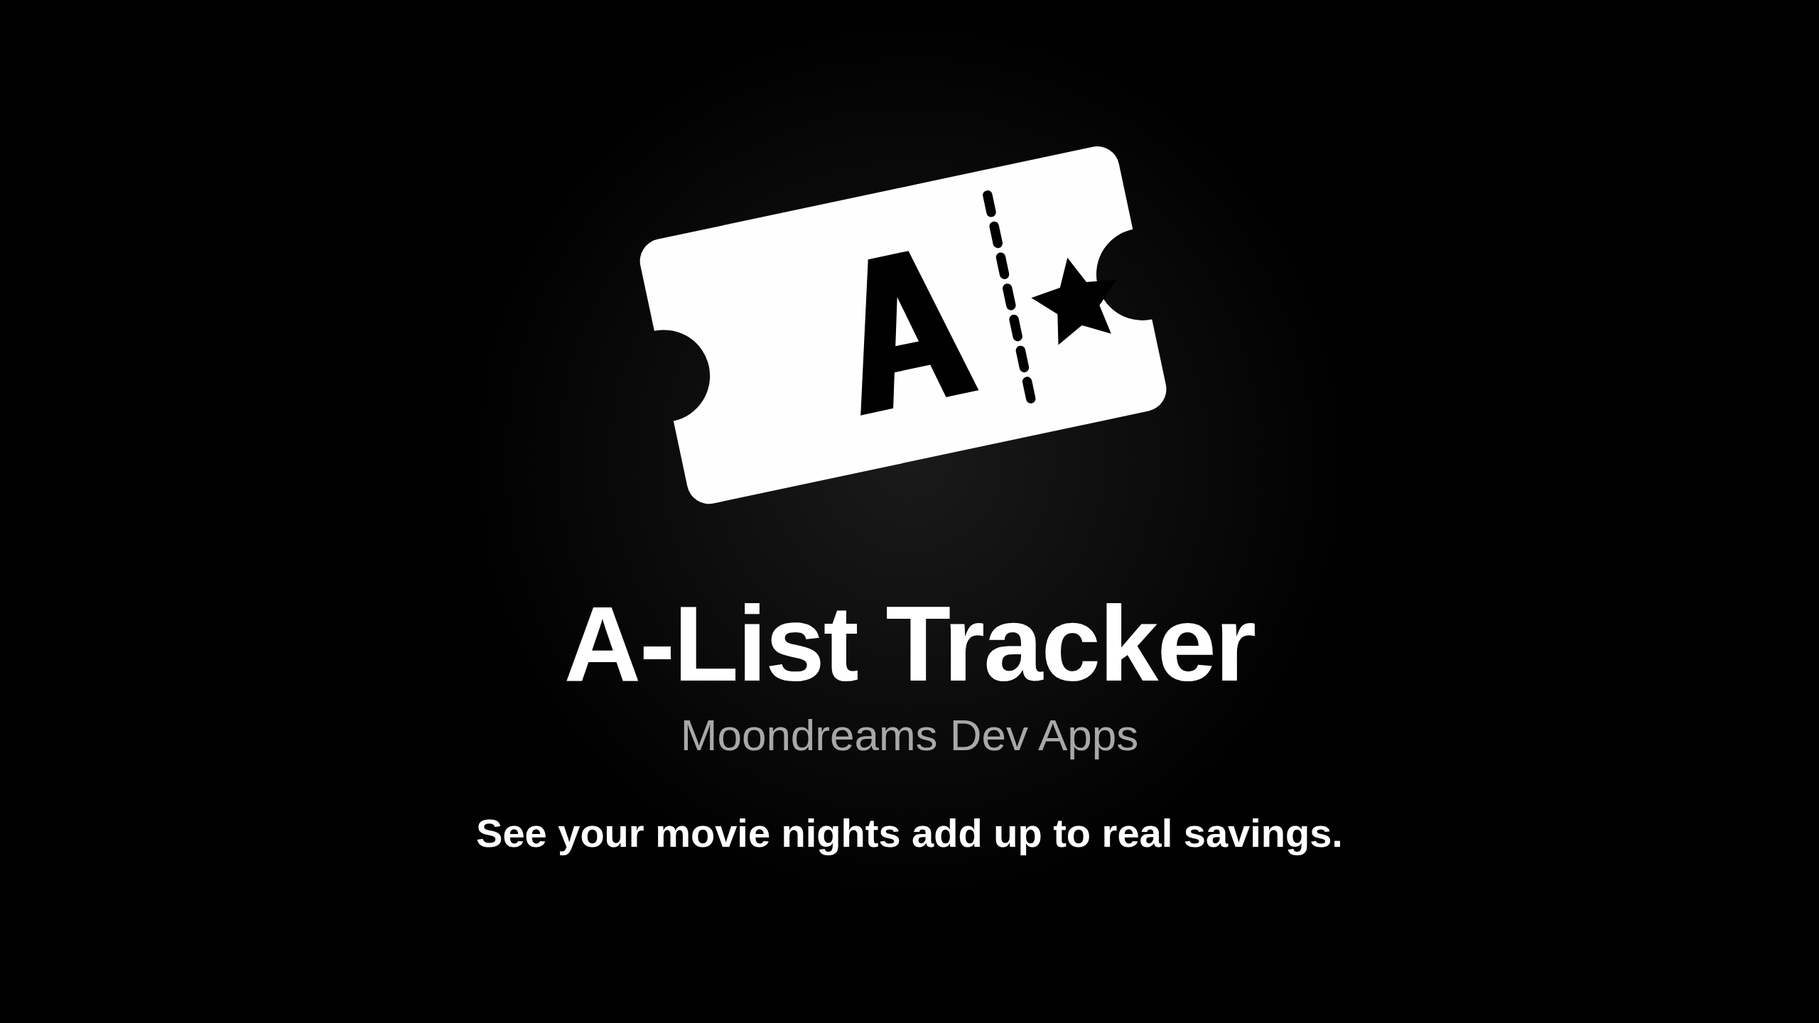
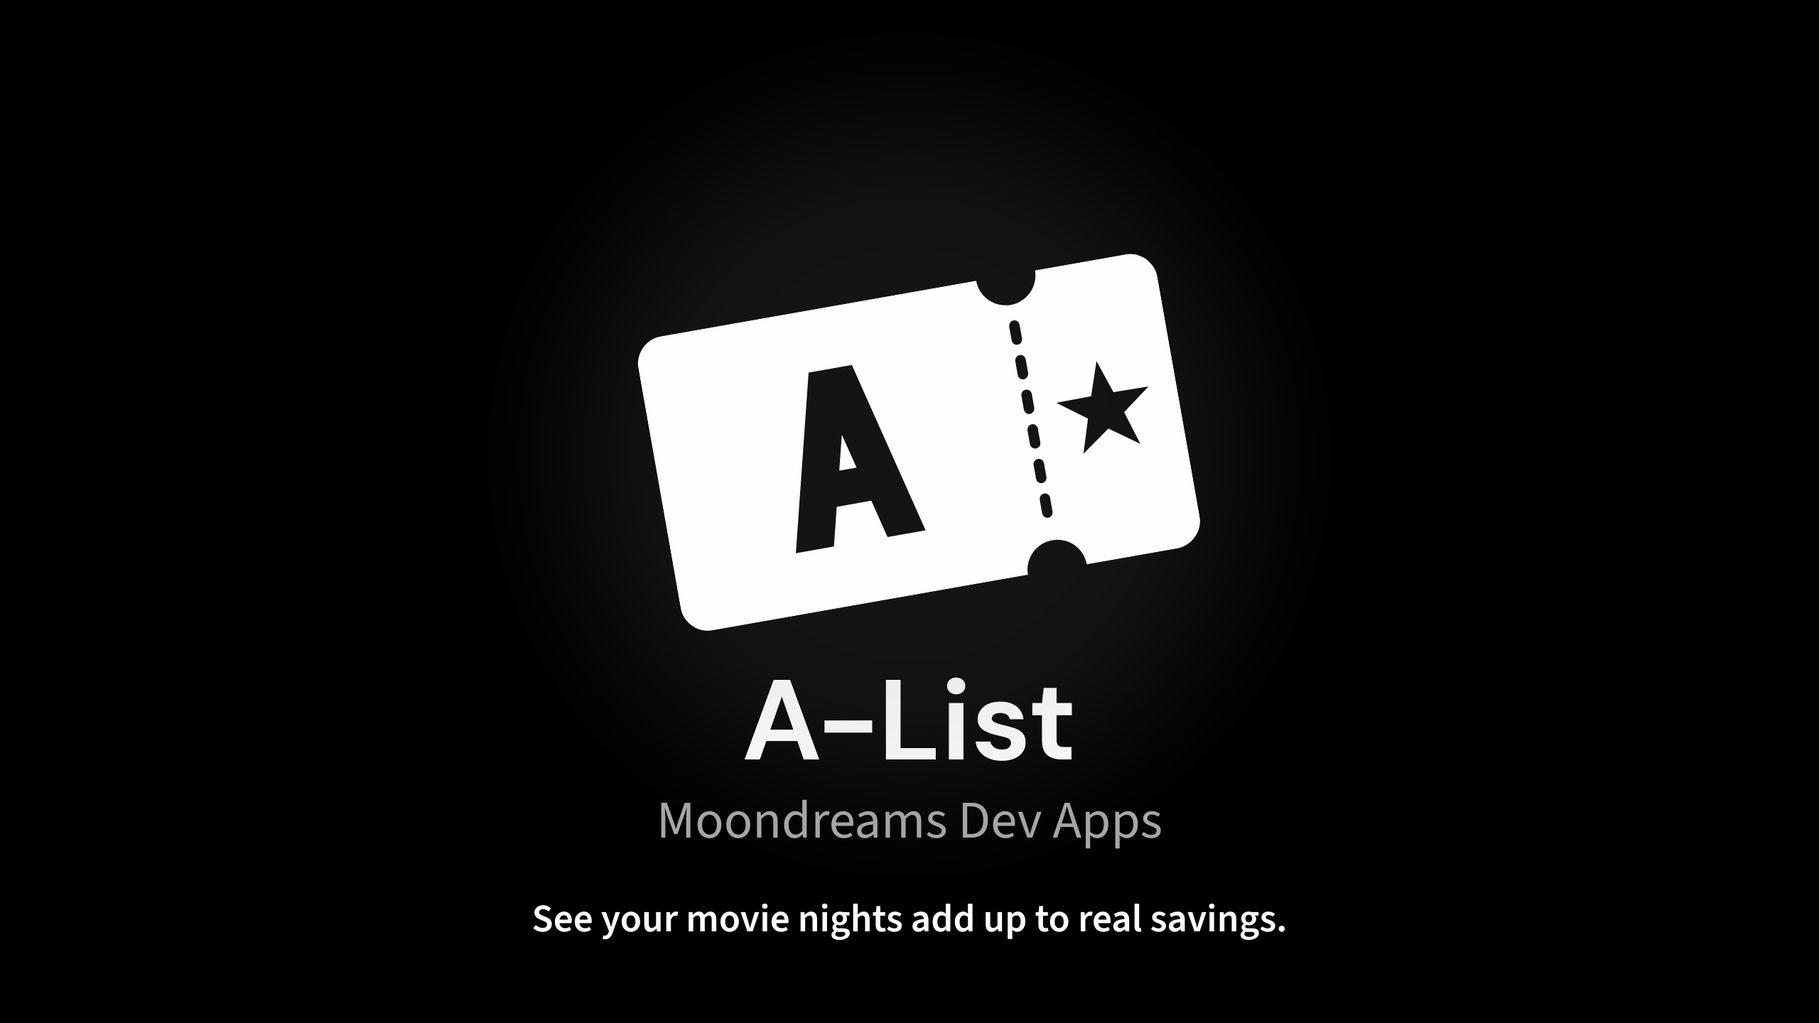
A-List Tracker: keep unreleased watchlist movies' release dates fresh (#231)
* A-List Tracker: keep unreleased watchlist movies' release dates fresh

Claude-Session: https://claude.ai/code/session_01HmaS8i75YXpKmJEY7DZLEc

* A-List Tracker: drop a comment that restated a constant

Claude-Session: https://claude.ai/code/session_01HmaS8i75YXpKmJEY7DZLEc

* Reuse shared DAY_MS and drop what-comments in refresh hook

Claude-Session: https://claude.ai/code/session_01HmaS8i75YXpKmJEY7DZLEc

* Rebuild Cloud Functions automatically before the emulators start

The emulator loads the git-ignored functions/lib/ and nothing recompiled it,
so pulled function changes were silently missing until a manual build.

Claude-Session: https://claude.ai/code/session_01HmaS8i75YXpKmJEY7DZLEc

* Make functions/README a scannable reference and require keeping it current

Lists every exported function with its trigger and purpose, plus a secrets and
config table, per-function notes, a checklist for new functions and a
troubleshooting table. CLAUDE.md and the Copilot instructions now require
updating it alongside any function or secret change, and turning repeated
setup steps into scripts.

Claude-Session: https://claude.ai/code/session_01HmaS8i75YXpKmJEY7DZLEc

* Note that the emulators read the functions' local env and secret files only at startup

Claude-Session: https://claude.ai/code/session_01HmaS8i75YXpKmJEY7DZLEc

* update assets

* disable autocomplete on all inputs by default

* Set the board's Apps field instead of an app label when creating issues
[…]

Changed region(s): [[0.3125, 0.125, 0.6875, 0.75], [0.25, 0.7812, 0.75, 0.8438], [0.2812, 0.875, 0.7188, 0.9375]]

diff --git a/src/apps/a-list/hooks/useRefreshUnreleasedMovies.ts b/src/apps/a-list/hooks/useRefreshUnreleasedMovies.ts
@@ -1,0 +1,100 @@
+import { useEffect } from 'react';
+import { useStore } from 'react-redux';
+
+import { DAY_MS, queryClient } from '@/lib/query/queryClient';
+import { useAppDispatch, type RootState } from '@/store';
+import {
+  fromDateInputValue,
+  toLocalDateInputValue,
+} from '@/utils/dateInputUtils';
+import { REFRESH_BATCH_SIZE } from '@apps/a-list/constants';
+import { movieDetailsQueryOptions } from '@apps/a-list/queries/movieQueries';
+import { refreshWatchlistMovie } from '@apps/a-list/store/actions/watchlistActions';
+import { selectWatchlistRows } from '@apps/a-list/store/selectors';
+import type { MovieSnapshot } from '@apps/a-list/types';
+
+const SNAPSHOT_FIELDS: (keyof MovieSnapshot)[] = [
+  'title',
+  'releaseDate',
+  'posterUrl',
+  'runtimeMinutes',
+  'contentRating',
+];
+const refreshedThisSession = new Set<string>();
+
+/** A window of the sorted keys that moves along each day and wraps, so no movie is starved. */
+function pickDailyRotation(
+  movieKeys: string[],
+  now: number,
+  size: number,
+): string[] {
+  const sorted = [...movieKeys].sort();
+  if (sorted.length <= size) return sorted;
+
+  const offset = (Math.floor(now / DAY_MS) * size) % sorted.length;
+  const result = Array.from(
+    { length: size },
+    (_, index) => sorted[(offset + index) % sorted.length],
+  );
+  return result;
+}
+
+function isSnapshotChanged(stored: MovieSnapshot, fresh: MovieSnapshot) {
+  const result = SNAPSHOT_FIELDS.some(
+    (field) => (stored[field] ?? null) !== (fresh[field] ?? null),
+  );
+  return result;
+}
+
+export function useRefreshUnreleasedMovies(
+  uid: string | null,
+  isReady: boolean,
+) {
+  const store = useStore<RootState>();
+  const dispatch = useAppDispatch();
+
+  useEffect(() => {
+    if (!uid || !isReady || refreshedThisSession.has(uid)) {
+      return;
+    }
+    refreshedThisSession.add(uid);
+
+    const now = Date.now();
+    const todayDay = fromDateInputValue(toLocalDateInputValue(now)) ?? 0;
+    const rows = selectWatchlistRows(store.getState(), now);
+    const eligible = rows.filter(
+      ({ item, isSeen }) =>
+        !isSeen &&
+        item.movieKey.startsWith('imdb-') &&
+        (item.movie.releaseDate === null || item.movie.releaseDate >= todayDay),
+    );
+    const picked = pickDailyRotation(
+      eligible.map(({ item }) => item.movieKey),
+      now,
+      REFRESH_BATCH_SIZE,
+    );
+
+    const refresh = async () => {
+      // One at a time, so a spent lookup budget costs one failed call per movie, not a burst.
+      await picked.reduce(async (previous, movieKey) => {
+        await previous;
+        try {
+          const fresh = await queryClient.fetchQuery(
+            movieDetailsQueryOptions(movieKey),
+          );
+          const stored = eligible.find(({ item }) => item.movieKey === movieKey)
+            ?.item.movie;
+          if (stored && isSnapshotChanged(stored, fresh)) {
+            await dispatch(
+              refreshWatchlistMovie({ uid, movieKey, movie: fresh }),
+            ).unwrap();
+          }
+        } catch {
+          return;
+        }
+      }, Promise.resolve());
+    };
+
+    void refresh();
+  }, [uid, isReady, store, dispatch]);
+}

diff --git a/src/hooks/useDisableAutocomplete.ts b/src/hooks/useDisableAutocomplete.ts
@@ -1,0 +1,28 @@
+import { useEffect } from 'react';
+
+const FIELD_SELECTOR = 'input:not([autocomplete]), textarea:not([autocomplete])';
+
+const disableAutocomplete = (root: ParentNode) =>
+  root.querySelectorAll(FIELD_SELECTOR).forEach((field) => field.setAttribute('autocomplete', 'off'));
+
+// Library-built form fields expose no autocomplete option, so the default is set on the DOM.
+// Only insertions are observed and only the added subtree is scanned, so cost tracks what mounts.
+// A field with its own autocomplete attribute is left alone.
+export function useDisableAutocomplete() {
+  useEffect(() => {
+    disableAutocomplete(document);
+
+    const observer = new MutationObserver((mutations) =>
+      mutations.forEach((mutation) =>
+        mutation.addedNodes.forEach((node) => {
+          if (!(node instanceof Element)) return;
+          if (node.matches(FIELD_SELECTOR)) node.setAttribute('autocomplete', 'off');
+          disableAutocomplete(node);
+        }),
+      ),
+    );
+    observer.observe(document.body, { childList: true, subtree: true });
+
+    return () => observer.disconnect();
+  }, []);
+}

diff --git a/src/apps/a-list/store/actions/watchlistActions.ts b/src/apps/a-list/store/actions/watchlistActions.ts
@@ -121,3 +121,30 @@ export const removeWatchlistItem = createAsyncThunk<
     );
   }
 });
+
+/** Writes a fresher provider snapshot onto the watchlist item; viewings keep their own copy. */
+export const refreshWatchlistMovie = createAsyncThunk<
+  void,
+  { uid: string; movieKey: string; movie: MovieSnapshot },
+  { rejectValue: string }
+>(
+  'aList/watchlist/refreshMovie',
+  async ({ uid, movieKey, movie }, { rejectWithValue }) => {
+    try {
+      await updateDoc(getItemRef(uid, movieKey), {
+        movie: {
+          title: movie.title,
+          releaseDate: movie.releaseDate ?? null,
+          posterUrl: movie.posterUrl ?? null,
+          runtimeMinutes: movie.runtimeMinutes ?? null,
+          contentRating: movie.contentRating ?? null,
+        },
+        lastEditedAt: Date.now(),
+      });
+    } catch (error) {
+      return rejectWithValue(
+        getErrorMessage(error, 'Unable to refresh this movie.'),
+      );
+    }
+  },
+);

diff --git a/src/apps/a-list/AList.tsx b/src/apps/a-list/AList.tsx
@@ -23,6 +23,7 @@ import WatchlistScreen from '@apps/a-list/components/watchlist/WatchlistScreen';
 import { A_LIST_TABS, DEFAULT_A_LIST_TAB } from '@apps/a-list/constants';
 import { AListOverlayContext } from '@apps/a-list/hooks/useAListOverlay';
 import { useAListSync } from '@apps/a-list/hooks/useAListSync';
+import { useRefreshUnreleasedMovies } from '@apps/a-list/hooks/useRefreshUnreleasedMovies';
 import {
   selectIsAListLoaded,
   selectMembership,
@@ -48,6 +49,10 @@ function AList() {
   const loadError = useAppSelector(selectAListLoadError);
 
   useAListSync(user?.uid ?? null);
+  useRefreshUnreleasedMovies(
+    user?.uid ?? null,
+    isLoaded && !loadError && membership !== null,
+  );
 
   const requestedTab = searchParams.get('tab');
   const activeTab: AListTab =

diff --git a/src/App.tsx b/src/App.tsx
@@ -8,6 +8,7 @@ import { TOAST_TYPE_STYLES } from '@components/toastTypeStyles';
 import { AppCatalogProvider } from '@contexts/AppCatalogContext';
 import { AuthProvider } from '@contexts/AuthContext';
 import { NetworkStatusProvider } from '@contexts/NetworkStatusContext';
+import { useDisableAutocomplete } from '@hooks/useDisableAutocomplete';
 import { useReminderSync } from '@hooks/useReminderSync';
 import { SITE_VERSION } from '@lib/app';
 import {
@@ -22,6 +23,7 @@ import { store } from '@store/index';
 // Central, app-wide reminder sync — every mini-app shares this one
 // subscription instead of each wiring its own.
 function AppShell() {
+  useDisableAutocomplete();
   useReminderSync();
 
   return <RouterProvider router={router} />;

diff --git a/src/index.css b/src/index.css
@@ -108,6 +108,9 @@ input[type="file"]:disabled::-webkit-file-upload-button {
   cursor: not-allowed;
 }
 
+[role="dialog"] [tabindex="-1"]:focus {
+  outline: none;
+}
 
 /* Dreamer UI styles */
 @import "@moondreamsdev/dreamer-ui/styles"; /* non-TailwindCSS styles */

diff --git a/src/lib/app/app.constants.ts b/src/lib/app/app.constants.ts
@@ -5,4 +5,4 @@ export const APP_DESCRIPTION =
 export const ADMIN_EMAIL = 'nova@moondreams.dev';
 
 // Site-wide version, shared across every mini-app. Bump manually per release.
-export const SITE_VERSION = '1.52.0';
+export const SITE_VERSION = '1.53.1';

diff --git a/src/apps/a-list/constants.ts b/src/apps/a-list/constants.ts
@@ -30,6 +30,7 @@ export const MAX_MONTHLY_GOAL = 93;
 
 export const MOVIE_SEARCH_MIN_CHARS = 2;
 export const MOVIE_DETAILS_STALE_MS = 24 * 60 * 60 * 1000;
+export const REFRESH_BATCH_SIZE = 10;
 
 export const AMC_FORMATS: AmcFormat[] = [
   'STANDARD',

diff --git a/functions/README.md b/functions/README.md
@@ -1,41 +1,114 @@
 # Cloud Functions for MoonDreams Apps
 
-This repository includes the server-side execution path for Worth the Wait. The callable function lives at `functions/src/apps/worth-the-wait/triggerBoxAction.ts` and is exported from `functions/src/index.ts`.
+Server-side code for the mini-apps. Every function:
 
-The app-agnostic `fetchLinkMetadata` callable (`functions/src/linkMetadata/fetchLinkMetadata.ts`) reads any link's Open Graph metadata (title/description/image/site name) for any mini-app that wants a link preview. It needs no secrets (no API key), but does an outbound fetch on the caller's behalf, so it resolves the target's DNS first and rejects private/loopback/link-local addresses (an SSRF guard), caps redirects at 3, times out at 6s, and reads at most 1MB.
+- is exported from `functions/src/index.ts`;
+- runs in `us-central1`;
+- is deployed by CI on every merge to `main` (see the root README's [Deployment](../README.md#deployment)).
 
-A-List Tracker's movie lookups go through two callables in `functions/src/apps/a-list/`: `searchMovies({ query })` → `{ results }` (up to 10) and `getMovie({ movieKey })` → a movie snapshot (release date, runtime, rating, poster). Both require a signed-in caller and call [OMDb](https://www.omdbapi.com/) with the **`OMDB_API_KEY`** Functions secret (`firebase functions:secrets:set OMDB_API_KEY`); the key never reaches the browser, a response, or a log. OMDb's free tier is about 1,000 lookups a day for the whole app, so results are cached server-side (`apps/a-list/searchCache` for 7 days, `apps/a-list/movieCache` for 30 days once released and 1 day otherwise), and `lookupBudget.ts` counts every upstream call in `apps/a-list/lookupUsage`, refusing with `resource-exhausted` at 900 a day app-wide or 100 per member (override locally with `A_LIST_APP_DAILY_LOOKUP_CAP` / `A_LIST_MEMBER_DAILY_LOOKUP_CAP` in `functions/.env.local`). Clients can't read or write any of those three collections. **In the emulator with no key set, both callables answer from a built-in OMDb-shaped fixture catalog** (try "galaxy", "matrix" or "starlight"), so A-List works offline; put a real key in `functions/.secret.local` (`OMDB_API_KEY=…`) to hit OMDb locally. After the first deploy, if the browser reports a CORS error, follow the invoker-access step in the root README's Deployment section.
+## Functions
+
+| Function | Trigger | App | What it does |
+| --- | --- | --- | --- |
+| `searchMovies` | callable | A-List Tracker | `{ query }` → `{ results }` (up to 10) from OMDb |
+| `getMovie` | callable | A-List Tracker | `{ movieKey }` → a movie snapshot (release date, runtime, rating, poster) |
+| `triggerBoxAction` | callable | Worth the Wait | Runs the locked reveal/raffle workflow ([details](src/apps/worth-the-wait/README.md)) |
+| `deleteTrip` | callable | Waypoint | Deletes a trip and everything a client `deleteDoc` can't reach (subcollections, requests, reminders, cover) |
+| `shiftTripDates` | callable | Waypoint | Moves a trip's dates while keeping every item on its calendar day ("keep original dates") |
+| `rescheduleTripReminders` | Firestore update on `apps/waypoint/trips/{tripId}` | Waypoint | Re-times event reminders when a relative trip's dates or time zone change |
+| `fetchLinkMetadata` | callable | shared | Reads a link's Open Graph preview (title, description, image, site name) |
+| `sendScheduledReminders` | schedule, every 5 minutes | shared | Sends due push reminders from `reminders` through FCM |
+
+Every callable requires a signed-in caller.
+
+## Secrets and config
+
+| Name | Kind | Used by | Set it with |
+| --- | --- | --- | --- |
+| `OMDB_API_KEY` | Functions secret, **required to deploy** | `searchMovies`, `getMovie` | `firebase functions:secrets:set OMDB_API_KEY --project moondreams-dev-apps` |
+| `A_LIST_APP_DAILY_LOOKUP_CAP` | env, optional (default 900) | A-List lookups | `functions/.env.local` locally |
+| `A_LIST_MEMBER_DAILY_LOOKUP_CAP` | env, optional (default 100) | A-List lookups | `functions/.env.local` locally |
+
+- A secret never reaches the browser, a response, or a log.
+- `functions/.env.local` and `functions/.secret.local` are git-ignored (`*.local`).
+- Locally, put a real key in `functions/.secret.local` (`OMDB_API_KEY=…`) to call OMDb from the emulator. Leave the value empty (`OMDB_API_KEY=`) to use the built-in sample movies instead.
+- **Restart the emulators after editing either file.** They read `.env.local` and `.secret.local` only at startup.
+
+## Per-function notes
+
+### A-List Tracker: `searchMovies` and `getMovie`
+
+- **Upstream:** [OMDb](https://www.omdbapi.com/). The free tier is about 1,000 lookups a day for the whole app.
+- **Server cache:**
+  - `apps/a-list/searchCache`: 7 days.
+  - `apps/a-list/movieCache`: 30 days once a movie is released, 1 day before that (unreleased dates move).
+- **Budget:** `lookupBudget.ts` counts every upstream call in `apps/a-list/lookupUsage`. It refuses with `resource-exhausted` at 900 a day app-wide or 100 per member.
+- **Access:** clients can't read or write `searchCache`, `movieCache` or `lookupUsage`.
+- **Offline fixtures:**
+  - In the emulator with no key set, both callables answer from a built-in OMDb-shaped catalog (try "galaxy", "matrix" or "starlight").
+  - Unknown ids return `not-found`.
+
+### `fetchLinkMetadata`
+
+- **Secrets:** none.
+- **Safety:** it fetches on the caller's behalf, so it:
+  - resolves DNS first and rejects private, loopback and link-local addresses (SSRF guard);
+  - caps redirects at 3;
+  - times out at 6s;
+  - reads at most 1MB.
+
+### `sendScheduledReminders`
+
+- **Schedule:** polls every 5 minutes.
+- **Timing:** it looks ahead over the whole window and waits out each reminder's exact delay, so delivery is accurate to the second without a task queue.
 
 ## Local development
 
-1. Build the Cloud Functions package first so the emulator loads the compiled `functions/lib/index.js`:
+1. Install the functions package's dependencies. The root `npm install` doesn't cover `functions/`:
 
    ```bash
-   cd functions && npm install && npm run build
+   npm --prefix functions install
    ```
 
-2. Start the local Firebase emulators for Auth, Firestore, Realtime Database, and Cloud Functions:
+2. Start the emulators:
 
    ```bash
    npm run emulators
    ```
 
-3. Seed the local emulator data for the app:
+   This recompiles `functions/lib/` first, which is what the emulator loads. The `preemulators*` hooks in the root `package.json` do the same for `emulators:seed` and `emulators:seed:reset`, so pulled function changes are always picked up.
+
+3. Seed the emulator data, in a second terminal:
 
    ```bash
    npm run seed:reset
    ```
 
-4. Invoke the callable function from a signed-in client or a custom-token helper. The emulator exposes it at:
+4. Call a function from the signed-in app, or directly at:
 
    ```text
-   http://127.0.0.1:5001/moondreams-dev-apps/us-central1/triggerBoxAction
+   http://127.0.0.1:5001/moondreams-dev-apps/us-central1/<functionName>
    ```
 
-## Emulator checks
+The emulator UI at `http://127.0.0.1:4001` shows Firestore and Realtime Database state while a function runs. The seed data has fixture users and records for every app (see [SEEDING.md](../SEEDING.md)).
 
-Use the emulator UI at `http://127.0.0.1:4001` to inspect the Firestore and Realtime Database state while the function runs. The local seed data includes a shared Worth the Wait space and fixture user IDs so you can validate both trigger paths without touching production data.
+## Adding or changing a function
+
+- **Location:** export it from `functions/src/index.ts`, with app code under `functions/src/apps/<app>/`.
+- **Update this README in the same PR:**
+  - the table row;
+  - a "Secrets and config" row for any new secret or env var;
+  - a note if it caches, budgets, or fetches on a user's behalf.
+- **New secret:** create it in production *before* the PR merges, or the CI functions deploy fails and nothing ships.
+- **New callable:** if the browser reports a CORS error after its first deploy, run the invoker fix in the root README's [New Cloud Functions & Cloud Run invoker access](../README.md#new-cloud-functions--cloud-run-invoker-access).
+- **Server-only collection:** give it a deny-all block in `firestore.rules`.
 
 ## Troubleshooting
 
-If you run into issues about the function not being found or `lib/index.js` not existing, it means you've forgotten to run `npm run build`.
+| Symptom | Cause and fix |
+| --- | --- |
+| Emulator says a function isn't found, or `lib/index.js` doesn't exist | `functions/lib/` wasn't built. Start through `npm run emulators` (it builds first), or run `npm --prefix functions run build`. |
+| Browser CORS error on a callable in production | Missing public-invoker grant. See the root README's invoker section. |
+| CI deploy fails on functions with a secret error | The secret doesn't exist in production yet. Set it with `firebase functions:secrets:set`. |
+| A-List search shows sample movies locally | `OMDB_API_KEY` in `functions/.secret.local` is missing or empty, so the emulator uses its fixture catalog. If you just added the key, restart the emulators. |
+| A changed `.env.local` cap or `.secret.local` key has no effect | The emulators read these files only at startup. Restart them. |

diff --git a/CLAUDE.md b/CLAUDE.md
@@ -79,6 +79,8 @@ How Waypoint's phone-first redesign works; new features follow it. Design the ph
 ## Cloud Functions
 
 - A third-party key that can't be domain-restricted is a Functions secret behind an `onCall` (never in the browser, a response or a log); a free-tier API shared by all users gets a server-side cache and a daily budget guard. Full rule in `copilot-instructions.md`.
+- **`functions/README.md` is the functions reference — keep it current in the same PR.** Adding, renaming or removing a function updates its row in the Functions table (trigger, app, purpose). A new secret or env var gets a "Secrets and config" row, and a function that caches, budgets or fetches for a user gets a per-function note. A new secret is created in production before the PR merges (CI deploys every function on merge, and a missing secret fails the whole deploy), and the PR body says so.
+- **Local setup lives in scripts, not memory.** A step every developer must repeat (like building `functions/lib/` before the emulators load it, handled by the `preemulators*` hooks) becomes a `package.json` script or `pre*` hook, and the README documents the command rather than the manual step.
 - A newly-added `onCall` function can deploy without its public-invoker IAM grant (symptom: browser CORS error; GCP Cloud Run request logs show a 403 on the `OPTIONS` preflight). See README's [Deployment](README.md#new-cloud-functions--cloud-run-invoker-access) section for the `gcloud run services update --no-invoker-iam-check` fix.
 
 ## Nine Lives placement

diff --git a/.github/copilot-instructions.md b/.github/copilot-instructions.md
@@ -170,6 +170,8 @@ useEffect(() => {
 - Keep the root `README.md` and relevant mini-app docs current and minimal whenever code or behavior changes.
 - Preserve the existing structure and tone of existing docs; do not rewrite them into a different format or voice.
 - Update, remove, or compress stale content instead of adding long commentary.
+- **`functions/README.md` mirrors `functions/src/index.ts`:** every exported function has a row in its Functions table (trigger, app, purpose), and every secret or env var a function reads has a "Secrets and config" row. Update both in the same PR that adds, renames, removes or reconfigures a function. A new secret must exist in production before the PR merges, because CI deploys every function on merge and a missing secret fails the deploy.
+- **A setup step every developer must repeat is a script, not a README instruction.** Build it into `package.json` (a script or a `pre*` hook, like the `preemulators*` hooks that compile `functions/lib/` before the emulators load it), then document the command.
 - **The root `README.md` "Current apps" list mirrors `APP_REGISTRY`:** every app has one line (an emoji, its name, its registry description), added in the same PR that registers the app and updated whenever an app is renamed or its description changes.
 
 ### Critical reminders

diff --git a/src/apps/a-list/ISSUES.md b/src/apps/a-list/ISSUES.md
@@ -1,6 +1,6 @@
 # A-List Tracker — Issue Roadmap
 
-Tiers mirror the README's Core MVP / Next Steps / Stretch Goals. Within a tier, issues are ordered by prerequisite, and each issue adds only the fields, types and rules clauses it uses. On GitHub, Issue N is #(187 + N): the MVP is #188–#204, Next Steps #205–#208 and Beyond #209–#213, all labeled `A-List (App)` plus their tier.
+Tiers mirror the README's Core MVP / Next Steps / Stretch Goals. Within a tier, issues are ordered by prerequisite, and each issue adds only the fields, types and rules clauses it uses. On GitHub, Issue N is #(187 + N): the MVP is #188–#204, Next Steps #205–#208 and Beyond #209–#213, all labeled with their tier and set to A-List on the board's Apps field.
 
 ## MVP
 
